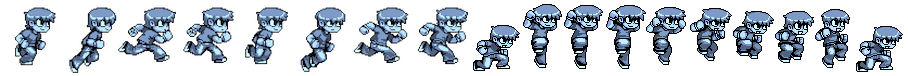
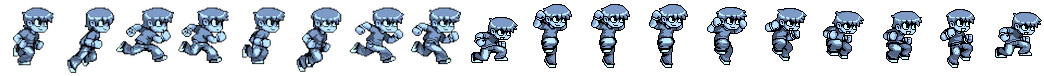
adjust distance between sprites in scott sprite sheets

diff --git a/public/js/app.js b/public/js/app.js
@@ -9,8 +9,8 @@ function preload() {
 	game.scale.setScreenSize(true);
 
 	game.load.image('background', 'images/background.jpg');
-	game.load.spritesheet('scott1', 'images/scott1.png', 50.4, 76);
-	game.load.spritesheet('scott2', 'images/scott2.png', 50.4, 76);
+	game.load.spritesheet('scott1', 'images/scott1.png', 58, 76);
+	game.load.spritesheet('scott2', 'images/scott2.png', 58, 76);
 
 }
 
@@ -19,23 +19,21 @@ function create() {
 	background.scale.y = game.rnd.realInRange(0.37, 0.37);
 	
 	scott1 = game.add.sprite(width*0.18, 240, 'scott1');
-	scott1.scale.x = game.rnd.realInRange(0.25, 0.25);
-	scott1.scale.y = game.rnd.realInRange(0.25, 0.25);
+	scott1.scale.x = game.rnd.realInRange(0.5, 0.5);
+	scott1.scale.y = game.rnd.realInRange(0.5, 0.5);
 
-	// scott1.animations.add('run', [0, 1, 2, 3, 4, 5, 6, 7],15 ,true);
+	scott1.animations.add('run', [0, 1, 2, 3, 4, 5, 6, 7],15 ,true);
 	scott1.animations.add('jump', [8, 9, 10, 11, 12, 13, 14, 15, 16, 17], 15, true);
-	scott1.animations.play('jump');
+	scott1.animations.play('run');
 
-	// scott1Jump = game.add.sprite(width*0.18, 240, 'scott1Jump');
-	// scott1Jump.animations.add('jump', [0, 1, 2, 3, 4, 5, 6, 7, 8, 9], 18, true);
 
 	scott2 = game.add.sprite(width*0.18, 100, 'scott2');
-	scott2.scale.x = game.rnd.realInRange(0.25, 0.25);
-	scott2.scale.y = game.rnd.realInRange(0.25, 0.25);
+	scott2.scale.x = game.rnd.realInRange(0.5, 0.5);
+	scott2.scale.y = game.rnd.realInRange(0.5, 0.5);
 
-	// scott2.animations.add('run', [0, 1, 2, 3, 4, 5, 6, 7],15 ,true);
+	scott2.animations.add('run', [0, 1, 2, 3, 4, 5, 6, 7],15 ,true);
 	scott2.animations.add('jump', [8, 9, 10, 11, 12, 13, 14, 15, 16, 17], 15, true);
-	scott2.animations.play('jump');
+	scott2.animations.play('run');
 
 	cursors = game.input.keyboard.createCursorKeys();
 }
